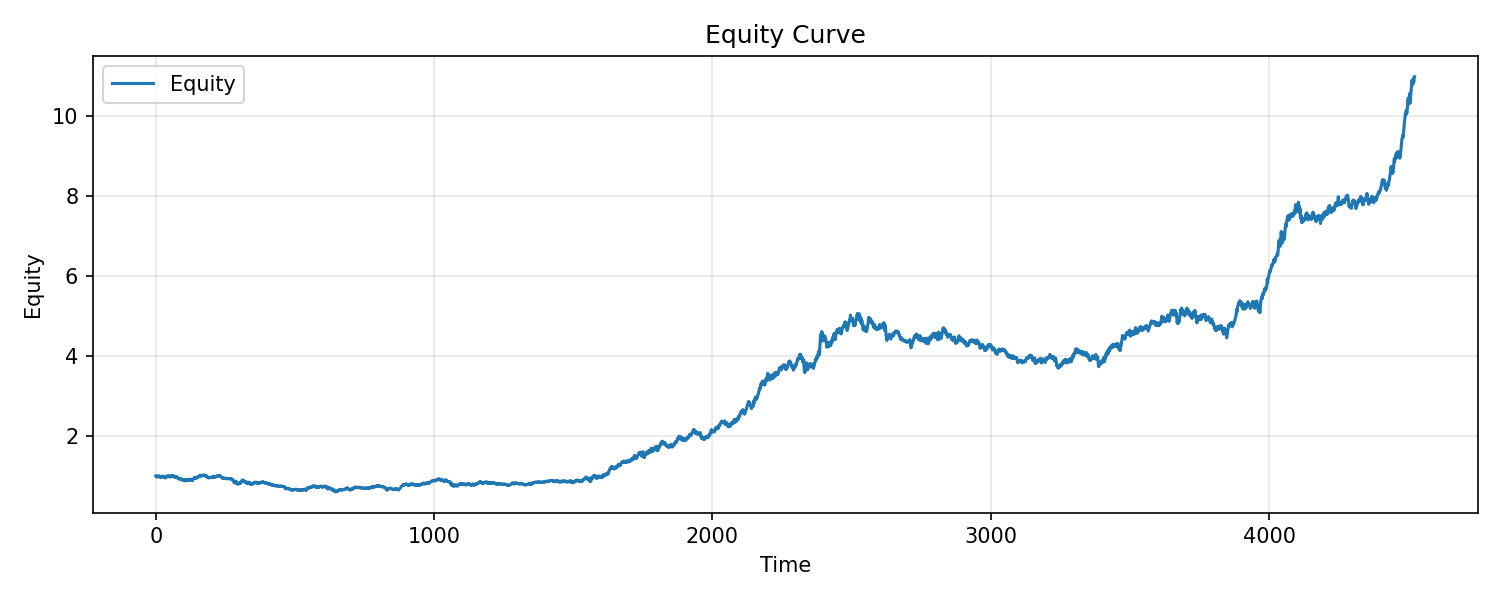
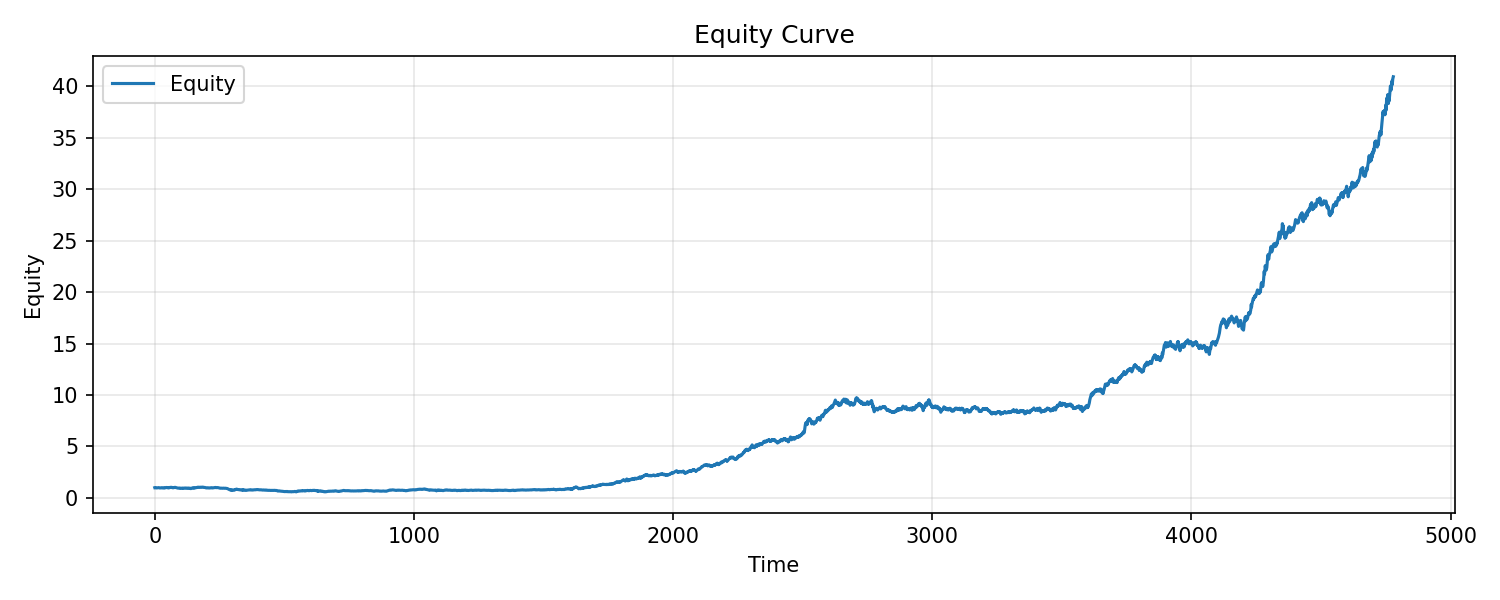
updated readme

diff --git a/README.md b/README.md
@@ -26,7 +26,7 @@ This project focuses on:
 | Paper Broker | ✔ | Simulated execution for backtesting |
 | Backtesting | ✔ | Full walk-forward simulation |
 | AI Filter | ⏳ optional | Placeholder for trade-quality evaluation |
-| Live Trading | ⏳ future | Binance execution to be added safely |
+| Live Trading | ✔ | Binance USDⓈ-M futures auto execution (opt-in) |
 
 ---
 
@@ -39,6 +39,14 @@ The bot is designed to:
 - use **clear, explainable rules**
 
 This improves survivability and reduces churn.
+
+---
+
+## ✅ Current Status
+
+- Live trading loop implemented and gated by `ENABLE_LIVE_TRADING`
+- Mean Reversion strategy tuned for consistency (RSI 32/68, ATR mult 1.0, stretch 0.006, ATR stretch 0.75)
+- Futures and local BTC/USD backtests updated with fee modeling
 
 ---
 
@@ -92,6 +100,11 @@ Optional risk configuration (defaults shown in `.env.example`):
 - `MAX_DAILY_LOSS_PCT` (default 0.02)
 - `MAX_TRADES_PER_DAY` (default 5)
 - `LIVE_LEVERAGE` (default 1)
+Strategy parameters (defaults shown in `.env.example`):
+- `RSI_LOW` / `RSI_HIGH` (default 32 / 68)
+- `ATR_MULT` (default 1.0)
+- `MIN_STRETCH` (default 0.006)
+- `MIN_STRETCH_ATR_MULT` (default 0.75)
 
 Start the live loop:
 
@@ -107,6 +120,7 @@ The current backtests use a mean-reversion rule set designed to capture
 stretched moves back toward a short-term mean:
 - RSI extremes as a trigger (oversold/overbought)
 - minimum price stretch requirement before entry
+- volatility-normalized stretch floor (ATR-based)
 - ATR-based sizing for stop-loss and take-profit
 - trade limiter applied with daily reset at NYSE open
 
@@ -117,24 +131,34 @@ rather than trend continuation.
 
 Using Bitstamp BTC/USD 1h data (local CSV) for 2018-05-15 → 2025-12-01.
 Fees modeled as Binance USDC taker 0.05% per side:
-- Mean Reversion strategy
-- Return: 998.47%
-- Max Drawdown: -41.11%
-- Trades: 4523
-- Win Rate: 60.51%
+- Mean Reversion strategy (volatility-normalized stretch)
+- Return: 3994.20%
+- Max Drawdown: -43.82%
+- Trades: 4779
+- Win Rate: 61.81%
 
 Per-year breakdown:
-- 2018 (from 2018-05-15): Return -19.40%, Trades 346, Win Rate 53.47%, Max DD -22.97%
-- 2019: Return -6.15%, Trades 563, Win Rate 54.71%, Max DD -29.31%
-- 2020: Return 21.57%, Trades 597, Win Rate 59.80%, Max DD -19.45%
-- 2021: Return 183.41%, Trades 554, Win Rate 62.64%, Max DD -11.51%
-- 2022: Return 58.28%, Trades 557, Win Rate 61.94%, Max DD -13.88%
-- 2023: Return -10.42%, Trades 564, Win Rate 57.98%, Max DD -21.31%
-- 2024: Return 31.67%, Trades 631, Win Rate 60.86%, Max DD -14.41%
-- 2025 (through 2025-12-01): Return 110.76%, Trades 574, Win Rate 70.03%, Max DD -6.81%
+- 2018 (from 2018-05-15): Return -24.82%, Trades 354, Win Rate 52.26%, Max DD -30.43%
+- 2019: Return -5.10%, Trades 576, Win Rate 55.21%, Max DD -27.52%
+- 2020: Return 24.19%, Trades 623, Win Rate 59.55%, Max DD -20.77%
+- 2021: Return 302.31%, Trades 599, Win Rate 65.61%, Max DD -15.42%
+- 2022: Return 116.32%, Trades 609, Win Rate 63.55%, Max DD -14.28%
+- 2023: Return 0.18%, Trades 598, Win Rate 59.53%, Max DD -14.60%
+- 2024: Return 93.60%, Trades 675, Win Rate 63.70%, Max DD -9.31%
+- 2025 (through 2025-12-01): Return 144.61%, Trades 596, Win Rate 70.97%, Max DD -5.87%
 
-Equity curve (full window):
-![Equity Curve](/equity_curve_full.png)
+Equity curve (BTC/USD full window):
+![Equity Curve](equity_curve_full.png)
+
+## 🧪 Historical Testing (Binance USDⓈ-M Futures)
+
+Using Binance BTC/USDC perpetual 1h data for 2023-01-01 → 2025-12-01:
+- Mean Reversion strategy (same parameters as live)
+- Return: 168.83%
+- Max Drawdown: -18.99%
+- Trades: 1538
+- Win Rate: 62.87%
+
 
 Run multi-window backtests (full + per-year):
 
